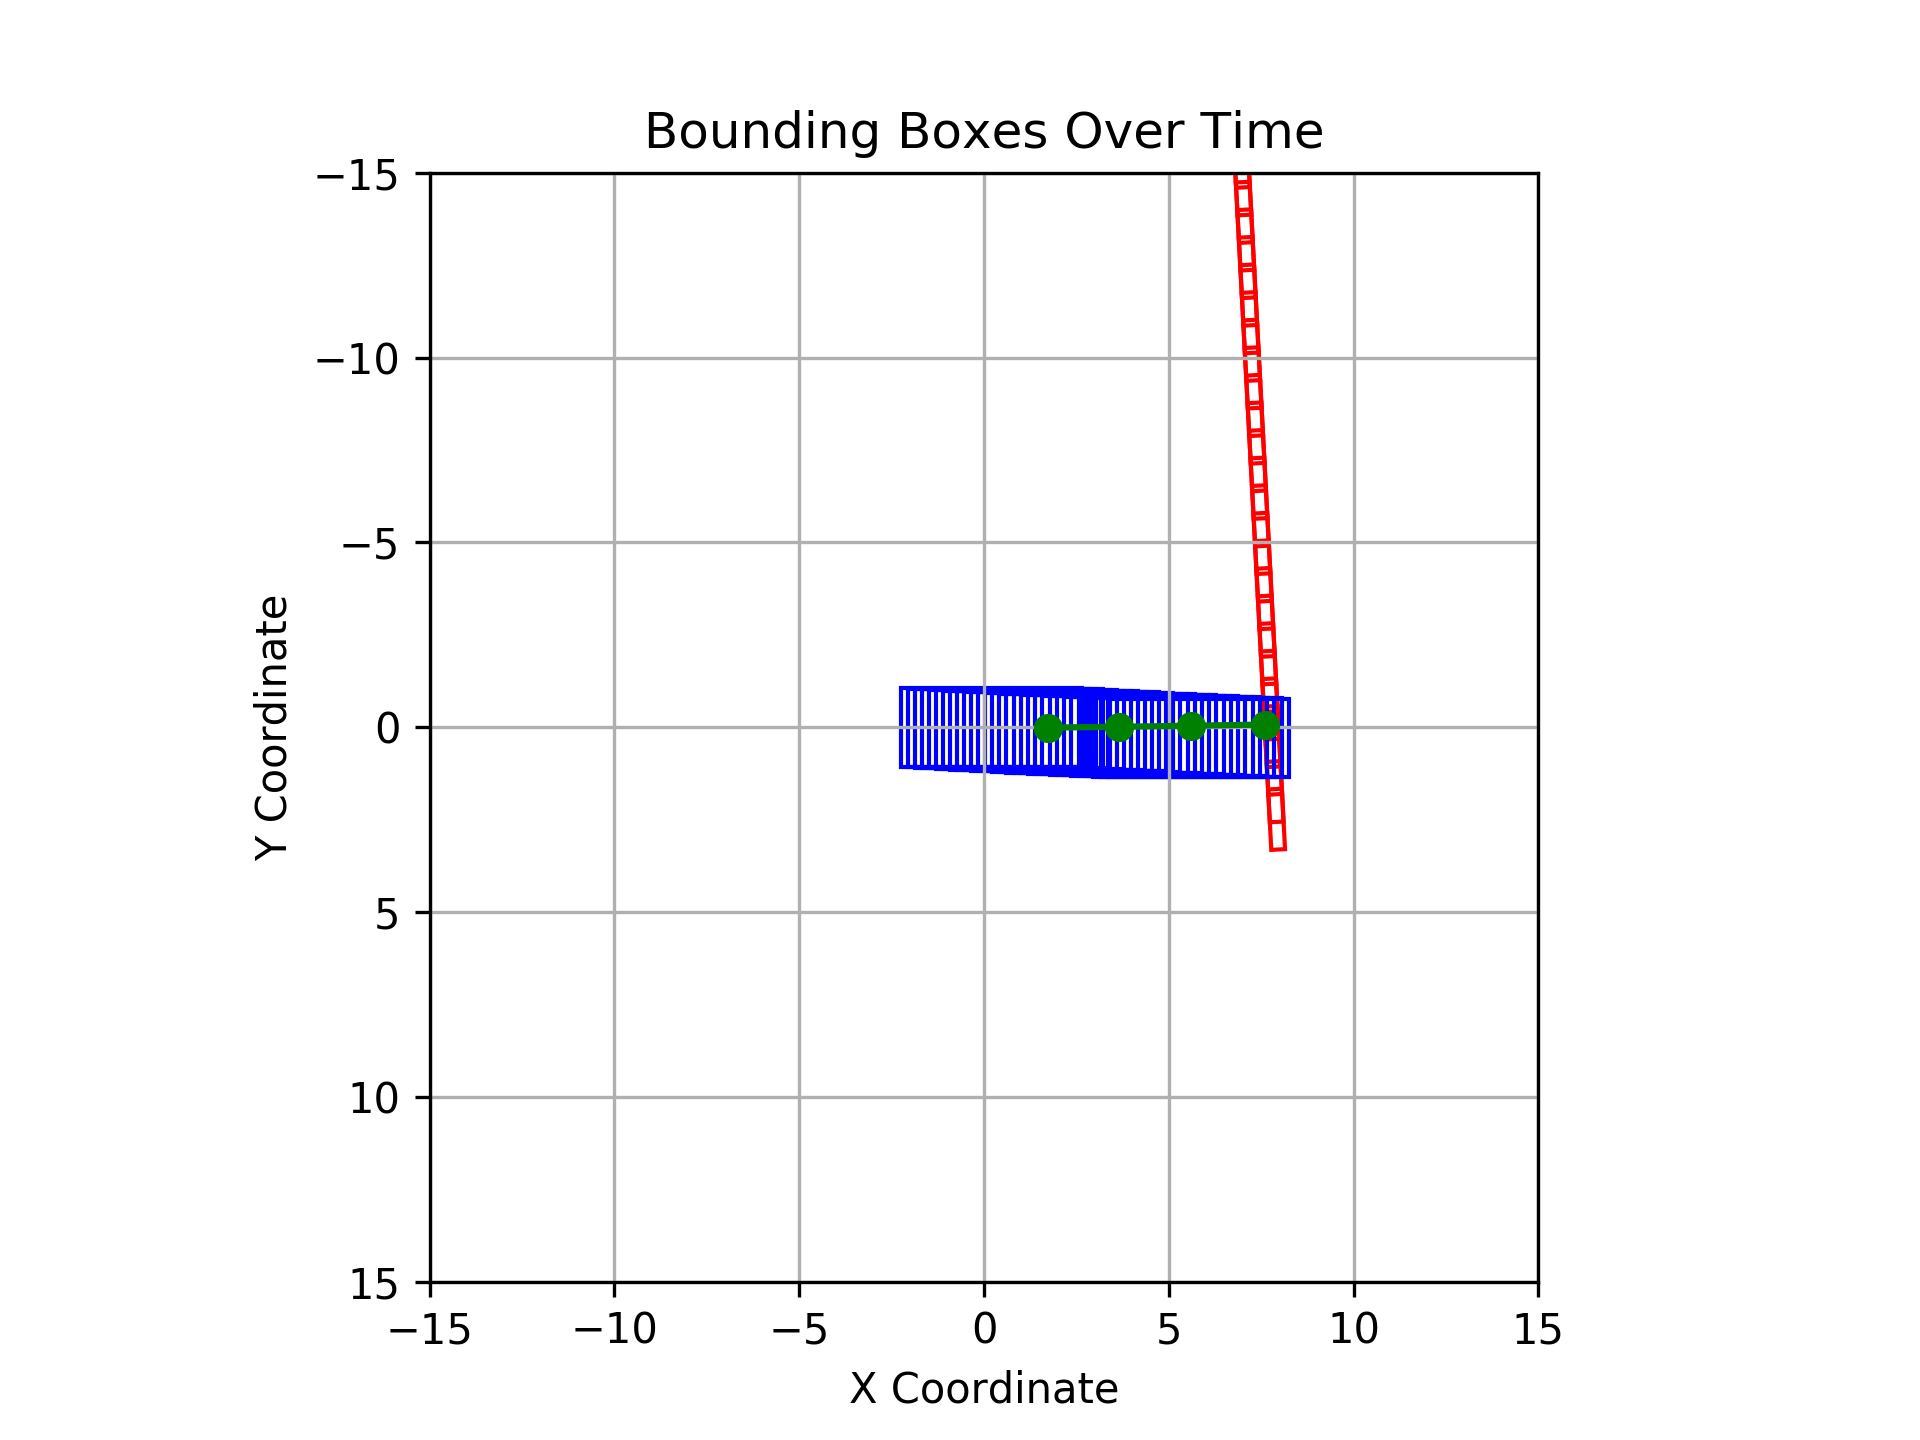
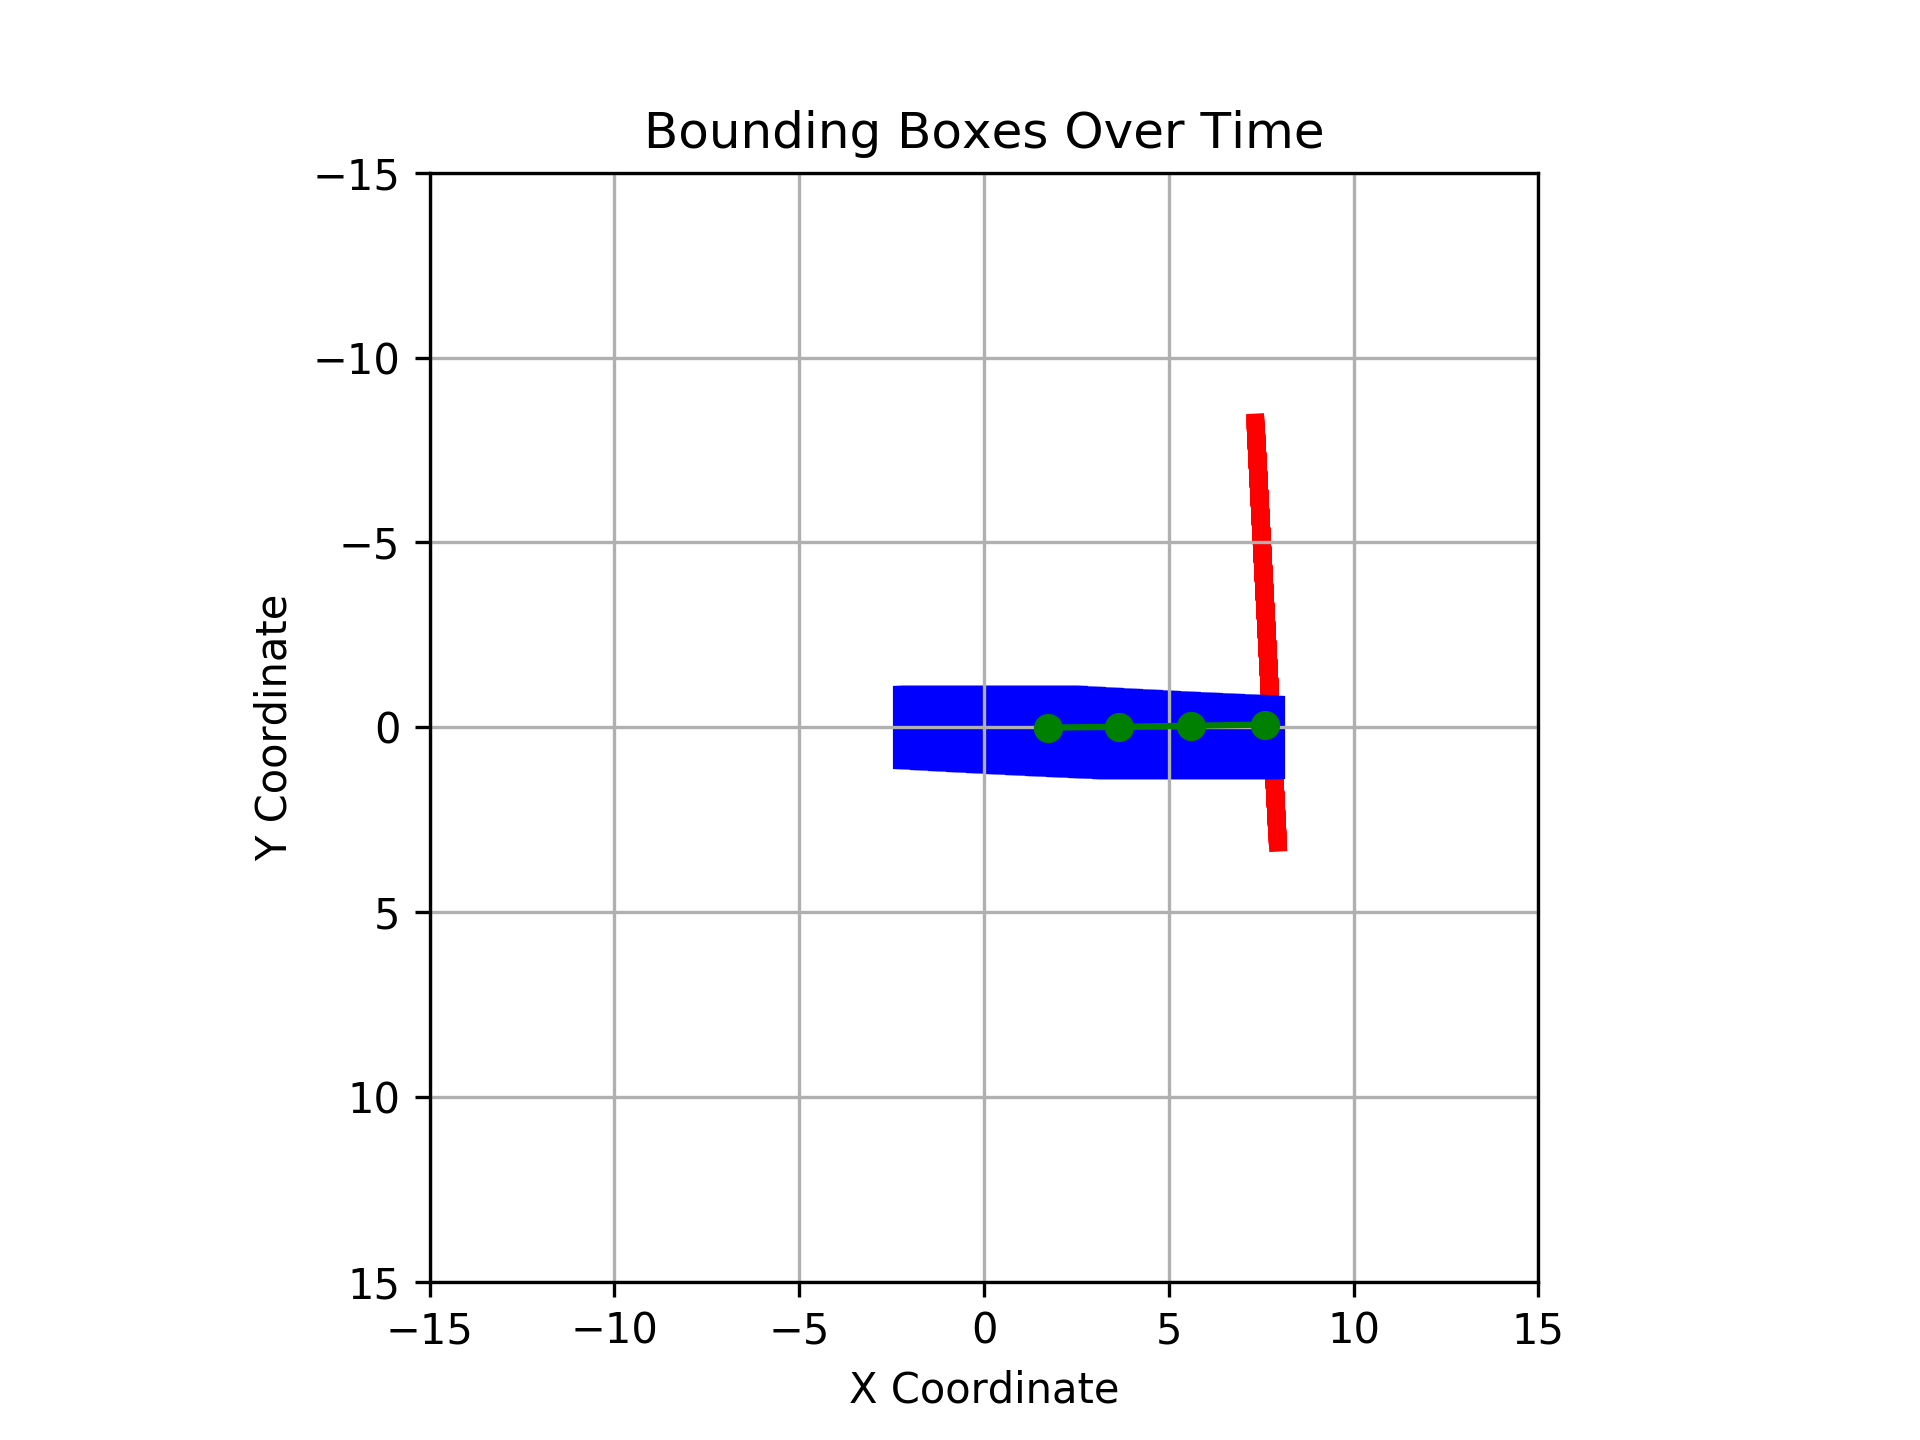
get convex hull

Changed region(s): [[0.4688, 0.375, 0.6875, 0.5938], [0.625, 0.125, 0.6562, 0.3125]]

diff --git a/leaderboard/leaderboard/scenarios/perception_contract/safety.py b/leaderboard/leaderboard/scenarios/perception_contract/safety.py
@@ -6,13 +6,14 @@ import matplotlib.pyplot as plt
 from mpl_toolkits.mplot3d import Axes3D
 from mpl_toolkits.mplot3d.art3d import Poly3DCollection
 from leaderboard.scenarios.perception_contract.sat import check_collision
+import scipy.spatial as sp
 
 
-def plot_3d_bboxes(obj_boxes, color, ax, label):
+def plot_3d_bboxes(obj_boxes, color, ax, label, fps=20.0):
     for t, box in enumerate(obj_boxes):
         # Add the z (time) coordinate
         box = [box[0], box[1], box[3], box[2]]
-        box_3d = [(x, y, t/40.0) for x, y in box]
+        box_3d = [(x, y, t/fps) for x, y in box]
         poly = Poly3DCollection([box_3d], alpha=0.6)
         poly.set_facecolor(color)
         ax.add_collection3d(poly)
@@ -31,7 +32,7 @@ def is_wp_safe_range(pred_wps, ego_bbox, ego_yaw, ego_speed, other_bbox, other_f
     max_speed = is_wp_safe(pred_wps, ego_bbox, ego_yaw, ego_speed, other_bbox, other_forward, other_speed_max, safety_distance, time, fps, debug)
     return min_speed and max_speed
 
-def is_wp_safe(pred_wps, ego_bbox, ego_yaw, ego_speed, other_bbox, other_forward, other_speed, safety_distance=1.0, time=2, fps=20, debug=False):
+def is_wp_safe(pred_wps, ego_bbox, ego_yaw, ego_speed, other_bbox, other_forward, other_speed, safety_distance=1.0, time=2, fps=100, debug=False):
     """
     Check if the predicted waypoints are safe from other vehicles.
 
@@ -59,7 +60,7 @@ def is_wp_safe(pred_wps, ego_bbox, ego_yaw, ego_speed, other_bbox, other_forward
 
     ego_bboxes = {}
     current_locs = np.array([0.0, 0.0])  # Ego vehicle starts at the origin
-    ego_model = EgoModel()
+    ego_model = EgoModel(dt=1./fps)
     for i in range(time * fps):
         # Remove waypoints that are behind the ego vehicle (already passed)
         if pred_wps[0][0] <= current_locs[0] and pred_wps[0][1] <= current_locs[1]:
@@ -77,11 +78,16 @@ def is_wp_safe(pred_wps, ego_bbox, ego_yaw, ego_speed, other_bbox, other_forward
             print(f"Time {i/fps:.2f}s: New locations: {new_locs}, New yaw: {new_yaw}, New speed: {new_speed}")
         diff_vector = np.array(new_locs)
         ego_bboxes[i] = [
-            (vertex[0] + diff_vector[0], vertex[1] + diff_vector[1]) for vertex in ego_bbox
+            [vertex[0] + diff_vector[0], vertex[1] + diff_vector[1]] for vertex in ego_bbox
         ]
         current_locs = new_locs
         ego_yaw = new_yaw
         ego_speed = new_speed
+
+    ego_xy = []
+    for bbox in ego_bboxes.values():
+        ego_xy.extend(bbox)
+    convex_hull = sp.ConvexHull(ego_xy)
 
     if debug:
         print("Ego BBoxes:")
@@ -93,8 +99,8 @@ def is_wp_safe(pred_wps, ego_bbox, ego_yaw, ego_speed, other_bbox, other_forward
             
         fig = plt.figure()
         ax = fig.add_subplot(111, projection='3d')
-        plot_3d_bboxes(list(ego_bboxes.values()), 'blue', ax, 'Ego Vehicle')
-        plot_3d_bboxes(list(other_bboxes.values()), 'red', ax, 'Other Vehicle')
+        plot_3d_bboxes(list(ego_bboxes.values()), 'blue', ax, 'Ego Vehicle', fps)
+        plot_3d_bboxes(list(other_bboxes.values()), 'red', ax, 'Other Vehicle', fps)
 
         ax.set_xlabel('X Coordinate')
         ax.set_ylabel('Y Coordinate')
@@ -136,6 +142,35 @@ def is_wp_safe(pred_wps, ego_bbox, ego_yaw, ego_speed, other_bbox, other_forward
         plt.savefig('bounding_boxes.png', dpi=300)
         plt.show()
 
+        fig.clear()
+
+        # Plot the convex hull and indicate the points
+        fig, ax = plt.subplots()
+        hull_points = np.array([ego_xy[i] for i in convex_hull.vertices])
+        hull_polygon = plt.Polygon(hull_points, fill=None, edgecolor='purple', linewidth=1, label='Convex Hull')
+        ax.add_patch(hull_polygon)
+        # Plot the convex hull vertices
+        ax.plot(hull_points[:, 0], hull_points[:, 1], 'o', color='purple', markersize=3, label='Convex Hull Vertices')
+        # Draw the predicted waypoints
+        # pred_wps = np.array(pred_wps_copy)
+        # ax.plot(pred_wps[:, 0], pred_wps[:, 1], marker='o', color='green', label='Predicted Waypoints')
+        # Plot ego bounding boxes
+        # for i in range(min((time * fps), len(ego_bboxes))):
+        #     ego_bbox_i = [ego_bboxes[i][0], ego_bboxes[i][1], ego_bboxes[i][3], ego_bboxes[i][2]]  # Ensure correct order
+        #     ego_polygon = plt.Polygon(ego_bbox_i, fill=None, edgecolor='blue', linewidth=1, label='Ego Vehicle' if i == 0 else "")
+        #     ax.add_patch(ego_polygon)
+        ax.set_xlim(-15, 15)
+        ax.set_ylim(15, -15)
+        ax.set_aspect('equal', adjustable='box')
+        ax.set_title('Convex Hull of Ego Bounding Boxes')
+        ax.set_xlabel('X Coordinate')
+        ax.set_ylabel('Y Coordinate')
+        ax.legend()
+        plt.grid()
+        plt.savefig('convex_hull.png', dpi=300)
+        plt.show()
+
+
 
     for i in range(min((time * fps), len(ego_bboxes), len(other_bboxes))):
         ego_bbox_i = ego_bboxes[i]
@@ -145,6 +180,10 @@ def is_wp_safe(pred_wps, ego_bbox, ego_yaw, ego_speed, other_bbox, other_forward
         if check_collision(ego_bbox_i, other_bbox_i):
             print(f"Collision detected at time {i/fps:.2f}s")
             return False
+
+
+    if debug:
+        print("Convex Hull Vertices:", convex_hull.vertices)
 
     print("No collisions detected.")
     return True
@@ -159,8 +198,8 @@ ego_yaw = 0.054454
 ego_speed = 3.7946761
 other_bbox = np.array([(7.773118495941162, 3.3192648887634277), (8.145111083984375, 3.299520492553711), (7.686257362365723, 1.6841745376586914), (8.058249473571777, 1.6644301414489746)])
 other_forward = np.array([-0.05287253, -0.99528052])
-other_speed = 15
+other_speed = 7
 
-is_wp_safe(pred_wps, ego_bbox, ego_yaw, ego_speed, other_bbox, other_forward, other_speed)
+is_wp_safe(pred_wps, ego_bbox, ego_yaw, ego_speed, other_bbox, other_forward, other_speed, debug=True)
     
 

diff --git a/leaderboard/leaderboard/scenarios/scenario_manager_local.py b/leaderboard/leaderboard/scenarios/scenario_manager_local.py
@@ -164,7 +164,7 @@ class ScenarioManager(object):
         # Register the scenario tick as callback for the CARLA world
         # Use the callback_id inside the signal handler to allow external interrupts
         signal.signal(signal.SIGINT, self.signal_handler)
-        self.dataset = np.array(["waypoints", "bbox", "yaw", "speed", "other_bbox", "other_forward", "safety_check"])
+        self.dataset = np.array(["waypoints", "non_ego_bbox", "safety_check"])
 
     def signal_handler(self, signum, frame):
         """
@@ -298,8 +298,7 @@ class ScenarioManager(object):
                         waypoints, ego_bbox_origin, ego_yaw, ego_speed,
                         bbox, other_forward, non_ego_speed, safety_distance=1.0, time=2, fps=20)
                     datapoint =  np.array([
-                        waypoints, ego_bbox_origin, ego_yaw, ego_speed,
-                        bbox, other_forward, safety_check
+                        waypoints, bbox, safety_check
                     ])
                     self.dataset = np.vstack((self.dataset, datapoint))
                     print("Safety check result: ", safety_check)